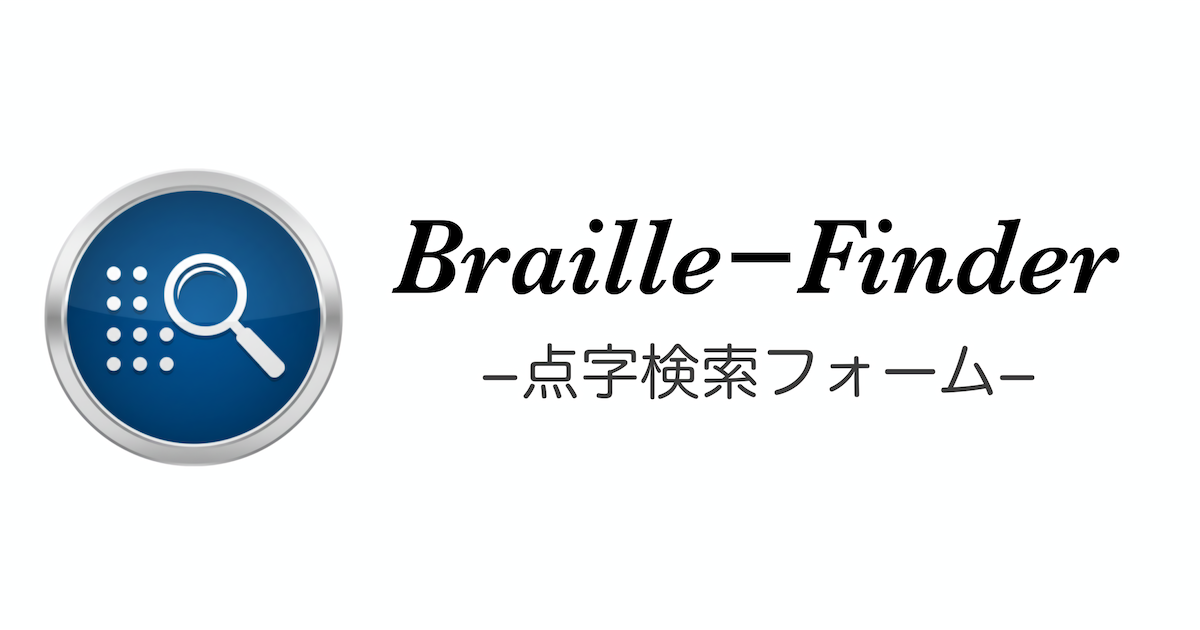
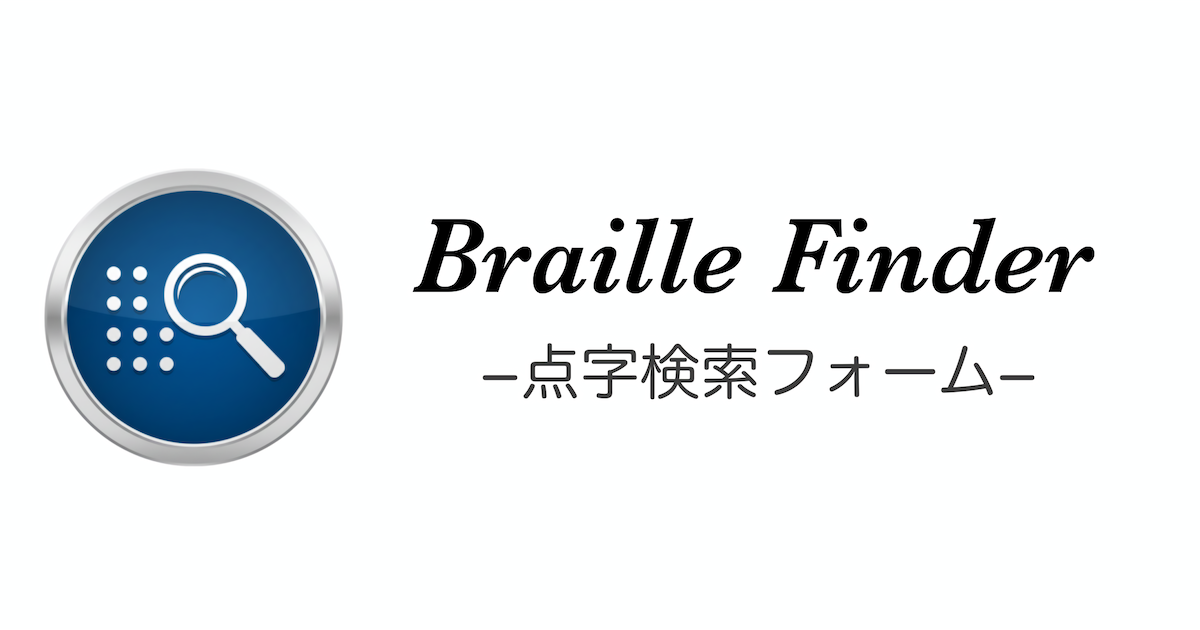
fix:og-image画像の差し替えとページタイトル、隙間の改修

Changed region(s): [[0.3083, 0.3317, 0.9558, 0.4825]]

diff --git a/frontend/src/components/braille/BraillePage.tsx b/frontend/src/components/braille/BraillePage.tsx
@@ -1,6 +1,6 @@
 "use client";
 
-import { TypographyH1, TypographyLead, TypographyP } from "../ui/typography";
+import { TypographyH1, TypographyH2, TypographyLead, TypographyP } from "../ui/typography";
 import { BrailleTable } from "./BrailleTable";
 import { BraillePatternSelector } from "./BraillePatternSelector";
 import { ScrollToButton } from "../ui/scroll-to-button";
@@ -11,9 +11,10 @@ export const BraillePage = () => {
 
   return (
     <>
-      <div className="flex flex-col items-start pb-10">
+      <div className="flex flex-col items-start pb-20">
         <div className="flex flex-col mb-6 p-4">
-          <TypographyH1>点字テキスト検索フォーム</TypographyH1>
+          <TypographyH1>Braille Finder</TypographyH1>
+          <TypographyH2 className="font-semibold">点字テキスト検索フォーム</TypographyH2>
           <TypographyP>全256個の点字文字をビジュアル検索（U+2800 〜 U+28FF）</TypographyP>
           <TypographyLead className="text-sm">
             点字セルをクリックすると文字をクリップボードにコピーできます
